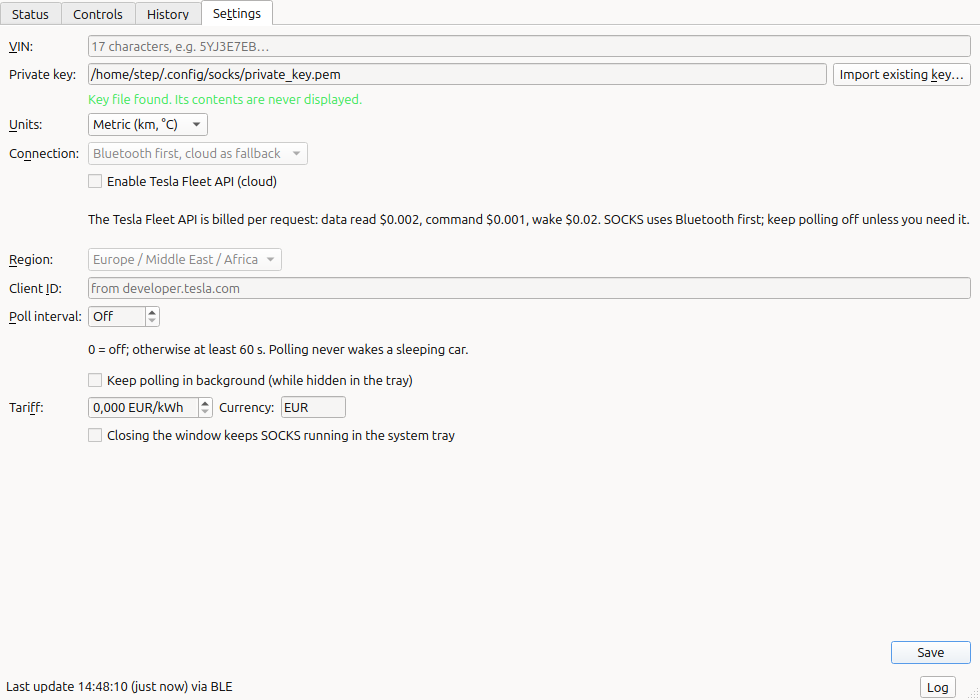
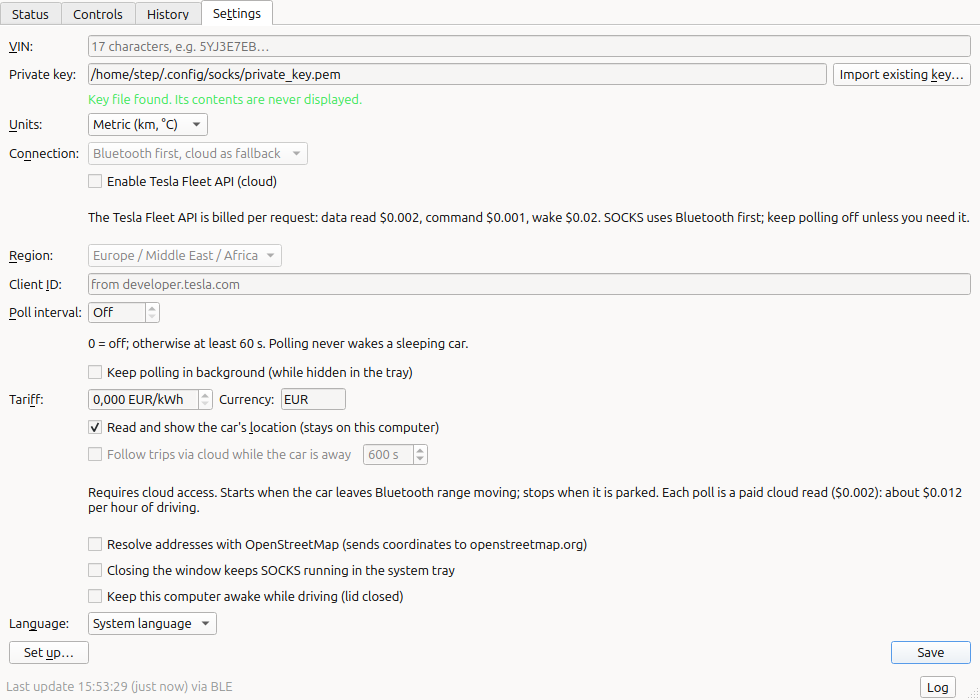
docs: README/HOWTO for v0.1.0 features; release.yml takes rpm version from the spec

diff --git a/README.md b/README.md
@@ -19,26 +19,50 @@
 
 ## Features
 
-**Status:** state of charge, range, charging, temperatures, locks and closures, odometer.
+**Status.** State of charge, range, charging, temperatures, locks and closures, odometer, and a
+Location card (opt-in; open in OpenStreetMap or copy). Values are clickable to change them, and
+risky switches (unlock, frunk, trunk, sentry off) need a full slide or a held Enter instead of a
+typed challenge.
 
-**Controls:** lock/unlock, climate and temperature, charge start/stop, charge limit, charge port,
-flash/honk, frunk/trunk, sentry, wake. Every command asks for confirmation; dangerous ones
-(unlock, frunk/trunk, sentry off) make you type the first letters of the action.
+**Depart by.** Pick a time, a charge % and a cabin temperature once; the car does the timing and
+the schedule clears itself afterwards. Also `socks-cli depart 07:30 --limit 90 --temp 21`.
+
+![Status tab](docs/screenshots/status.png)
+
+**Controls.** Lock/unlock, climate, charging, charge port, flash/honk, frunk/trunk, sentry, wake.
+Every command is confirmed; dangerous ones keep a typed challenge here.
 
 ![Controls tab](docs/screenshots/controls.png)
 
-![Confirmation dialog](docs/screenshots/confirm.png)
-
-**History:** distance per day, charge sessions and cost (set your tariff), consumption,
-state-of-charge curve, battery health trend, plus some nerd stats. Metric by default,
+**History.** Distance per day, charge sessions and cost (set your tariff), consumption,
+state-of-charge curve, battery health, per-drive profiles and GPX export. Metric by default,
 imperial switchable.
 
 ![History tab](docs/screenshots/history.png)
 
-**Settings:** VIN, units, Bluetooth/cloud preference, polling, tariff. The screenshots above
-use `--fake` (a simulated car and synthetic data).
+**Places and mileage register.** SOCKS learns places from where your drives start and end,
+labels drives automatically, and lets you set the purpose (business, private, commute) in one click.
+**Export > Mileage register (CSV)** writes a yearly km CSV in the layout of a Dutch
+*rittenregistratie*. It is a convenience export only: you are responsible for the register being
+complete and correct and for complying with the tax rules; SOCKS does not verify compliance.
+Reverse geocoding (place names) is off by default; turning it on sends coordinates to
+openstreetmap.org.
+
+**Charging invoices.** `socks-cli fleet charging --download DIR --csv summary.csv` fetches your
+Supercharger history and invoice PDFs through the Fleet API. Tesla does not charge for these
+endpoints (per their pricing spec).
+
+**Drive mode (bonus).** While the car is in gear, SOCKS reads it every 15 s over Bluetooth and
+records a detailed track. There is an option to keep the computer awake with the lid closed.
+The honest caveat: the laptop must already be awake when the drive starts. Otherwise, if
+trip watch and the cloud are on, away trips get one cloud position per 10 minutes.
+
+**Languages.** English, plus Dutch, Czech, German, Norwegian Bokmal and Swedish. The translations
+are machine-drafted and welcome review: see [docs/TRANSLATING.md](docs/TRANSLATING.md).
 
 ![Settings tab](docs/screenshots/settings.png)
+
+The screenshots use `--fake` (a simulated car and synthetic data).
 
 ## Requirements
 
@@ -55,10 +79,10 @@ use `--fake` (a simulated car and synthetic data).
 ## Install
 
 Pick one. Needs a working BlueZ for Bluetooth. Step-by-step with distro package names:
-[docs/HOWTO.md](docs/HOWTO.md).
+[docs/HOWTO.md](docs/HOWTO.md). Deb, rpm and wheel files are also on the releases page.
 
-**Flatpak** (any distro, recommended; Flathub listing pending, for now download `socks.flatpak`
-from the [releases page](https://github.com/stepspower/socks/releases)):
+**Flatpak** (any distro, recommended). Flathub: submitted, not yet listed. For now download
+`socks.flatpak` from the [releases page](https://github.com/stepspower/socks/releases):
 
 ```bash
 flatpak install --user socks.flatpak
@@ -121,9 +145,11 @@ polling is off by default, so most people pay nothing.
 - No telemetry. The only network traffic is to Tesla endpoints you enabled (cloud is off by default).
 - Private key and tokens live in `$XDG_CONFIG_HOME/socks/` (directory 0700, files 0600), never
   logged and never in the database. History is a local SQLite file in `$XDG_DATA_HOME/socks/`.
-- All state-changing commands go through one confirmation gate.
-- See [docs/SECURITY.md](docs/SECURITY.md) (threat model, reporting) and the
-  [security audit](docs/AUDIT-2026-10-11.md).
+- All state-changing commands go through one confirmation gate (slide switch or typed challenge).
+- Location, geocoding, cloud and trip watch are all off until you turn them on.
+- See [docs/SECURITY.md](docs/SECURITY.md) (threat model, reporting). An in-project security
+  review by a separate reviewer was done before release; the report is
+  [docs/AUDIT-2026-10-11.md](docs/AUDIT-2026-10-11.md). It is not a third-party audit.
 
 ## Troubleshooting
 

diff --git a/docs/HOWTO.md b/docs/HOWTO.md
@@ -41,7 +41,9 @@ uv tool install socks-tesla --python 3.13
 (`pipx install socks-tesla` also works if pipx already runs Python 3.13.) This gives you two
 programs: `socks` (the window) and `socks-cli` (the command line).
 
-Try it with no car first: `socks --fake`.
+Alternatives: the Flatpak bundle from the GitHub releases page (`flatpak install --user
+socks.flatpak`, Flathub listing submitted but not yet live), or the `.deb`, `.rpm` or wheel from
+the same page. Try it with no car first: `socks --fake`.
 
 ## 3. Find your VIN
 
@@ -115,10 +117,45 @@ when the car parks or SOCKS quits. Notes:
 - If your system refuses the inhibitor (polkit policy), SOCKS shows a one-line note and
   continues without it.
 
-## 8. Units, tariff, backup
+When the laptop was asleep for the whole drive, SOCKS has no Bluetooth track. If the cloud and
+**Follow trips via cloud while the car is away** are on, it records one cloud position every
+10 minutes (never waking the car; this costs data reads, see section 9). Without the cloud the
+drive is reconstructed from the odometer and state of charge only.
+
+### Status tab: switches, click-to-change and Depart by
+
+- Click a value (charge limit, target temperature, charging amps) to change it in place.
+- Switches for lock, climate, charge port, frunk, trunk and sentry act on release. The risky
+  direction (unlock, frunk/trunk, sentry off) needs a full slide or holding Enter for about a
+  second, replacing the typed challenge on this tab. The Controls tab keeps typed challenges.
+- **Depart by...** (or `socks-cli depart 07:30 --limit 90 --temp 21`, `--cancel` to clear)
+  sets a one-off departure: the car charges to the chosen % and warms the cabin so both are
+  ready at that time. The car does the timing, so SOCKS can be closed. It is cleared
+  automatically once done.
+
+### Location, places and the mileage register
+
+1. **Location** is off by default. Turn it on in Settings ("Read and show the car's location");
+   positions stay on this computer. The Status tab then shows a Location card with "Open in
+   map" (openstreetmap.org in your browser) and Copy.
+2. **Place names** come from your own drives first: SOCKS learns places from drive start and
+   end points (History > Places; double-click or F2 to rename). Optional online lookup is a
+   separate Settings switch, **off by default**; when on it sends rounded coordinates to
+   openstreetmap.org (Nominatim).
+3. Drives are labelled automatically (for example Home to Work). Click the Purpose cell of a
+   drive to cycle none, business, private, commute; **Rebuild labels** relearns places.
+4. **History > Export... > Mileage register YYYY (CSV)** writes a CSV with one row per trip (date, times,
+   odometer start/end, km, purpose, places) for a yearly register, the shape used for the Dutch
+   *rittenregistratie*. **Disclaimer:** this is a convenience export only. You are responsible
+   for the register being complete and correct (it must cover every trip of the year and carry
+   accurate places) and for complying with the tax rules. SOCKS does not verify compliance.
+
+## 8. Units, language, tariff, backup
 
 - Units: Settings > Units, metric (km, kWh, °C) or imperial. Stored values stay metric;
   only the display changes.
+- Language: Settings > Language (English, Nederlands, Cestina, Deutsch, Norsk bokmal, Svenska).
+  Translations are machine-drafted; corrections welcome, see [TRANSLATING.md](TRANSLATING.md).
 - Tariff: set your price per kWh to get charging cost on the History tab.
 - Backup: history is one file, `~/.local/share/socks/history.sqlite`. Copy it while SOCKS is
   closed (or use `sqlite3 history.sqlite ".backup backup.sqlite"`). Settings, key and tokens
@@ -129,6 +166,11 @@ when the car parks or SOCKS quits. Notes:
 See [FLEET_API_SETUP.md](FLEET_API_SETUP.md). Commands: `socks-cli fleet login`,
 `socks-cli fleet register`, `socks-cli fleet status`, `socks-cli fleet logout`.
 Prices: data $0.002, command $0.001, wake $0.02, with a $10 monthly discount.
+
+**Charging invoices:** `socks-cli fleet charging --since 2026-01-01 --download ~/Invoices --csv
+charging.csv` lists your Supercharger sessions, saves new invoice PDFs and writes a summary CSV.
+`--after-download CMD` runs a command once with the new PDF paths appended (no shell). Per Tesla's
+pricing spec these endpoints are not charged.
 
 ## 10. Uninstall and revoke
 

diff --git a/docs/DECISIONS.md b/docs/DECISIONS.md
@@ -123,3 +123,4 @@ GUI: Drive mode: a BLE read in D/R/N switches polling to 15 s (BLE-only reads, n
 GUI: "Keep this computer awake while driving (lid closed)" (gui.ini awake_while_driving, default off): while drive mode is on, holds org.freedesktop.login1.Manager.Inhibit("sleep:handle-lid-switch", "SOCKS", "Recording a drive", "block") via QtDBus (gui/drive_mode.SleepInhibitor keeps a dup of the fd; released on park/quit); refusal → one status-bar note; "awake lock" chip; never in --fake. Documented in HOWTO §7.
 GUI: History: selecting a drive loads stats.drive_profile (speed / power / SoC chart, one at a time via a combo) and shows "Export GPX…" only if the drive has GPS track points (export.export_gpx); summary adds "Vampire drain" (%/day) and "Asleep while parked" from stats.parked_stats; the yearly totals line adds measured vs estimated drive energy, summed in gui/history_io from drive.energy_source (no HISTORY helper existed).
 PACKAGING: dependabot uses the 'uv' ecosystem (pip cannot update uv.lock); Flatpak runtime check uses flathub.org/api/v2/summary/org.kde.Platform (the flathub/org.kde.Platform repo does not exist on GitHub) plus PySide BaseApp branches; Fleet API changelog URL 404s, docs point at developer.tesla.com docs and upstream GitHub releases.
+PACKAGING: README/HOWTO updated for v0.1.0 features; rpm tarball now named from the spec Version (rc tags broke it); deb uses changelog version so unaffected.
